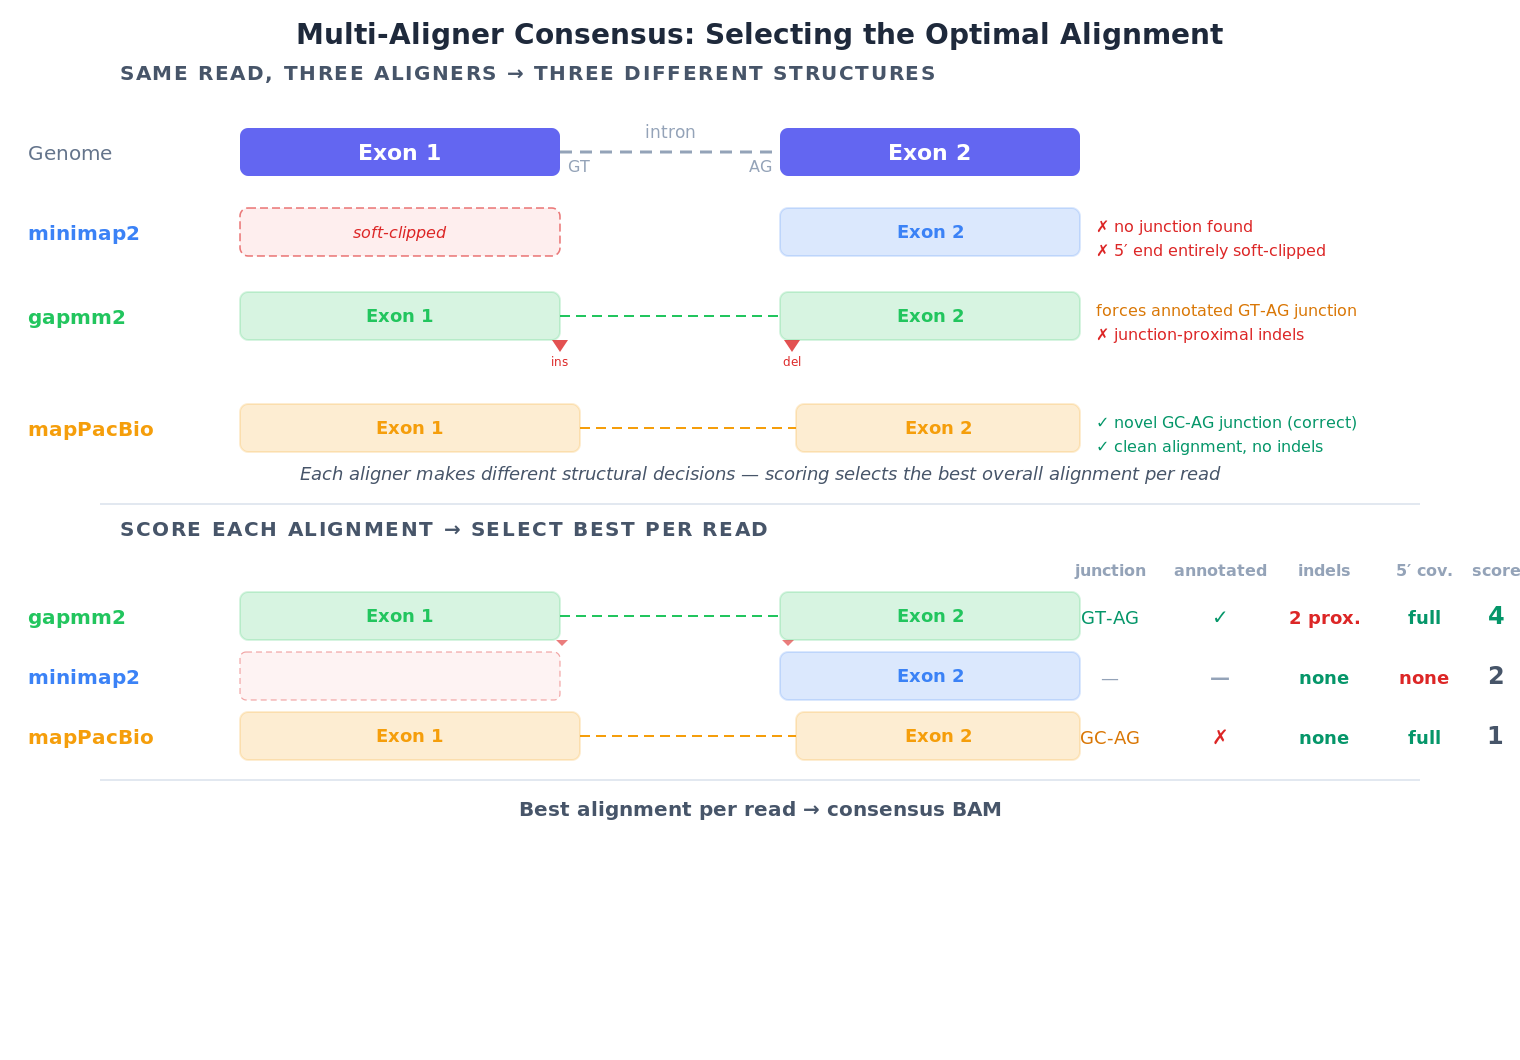
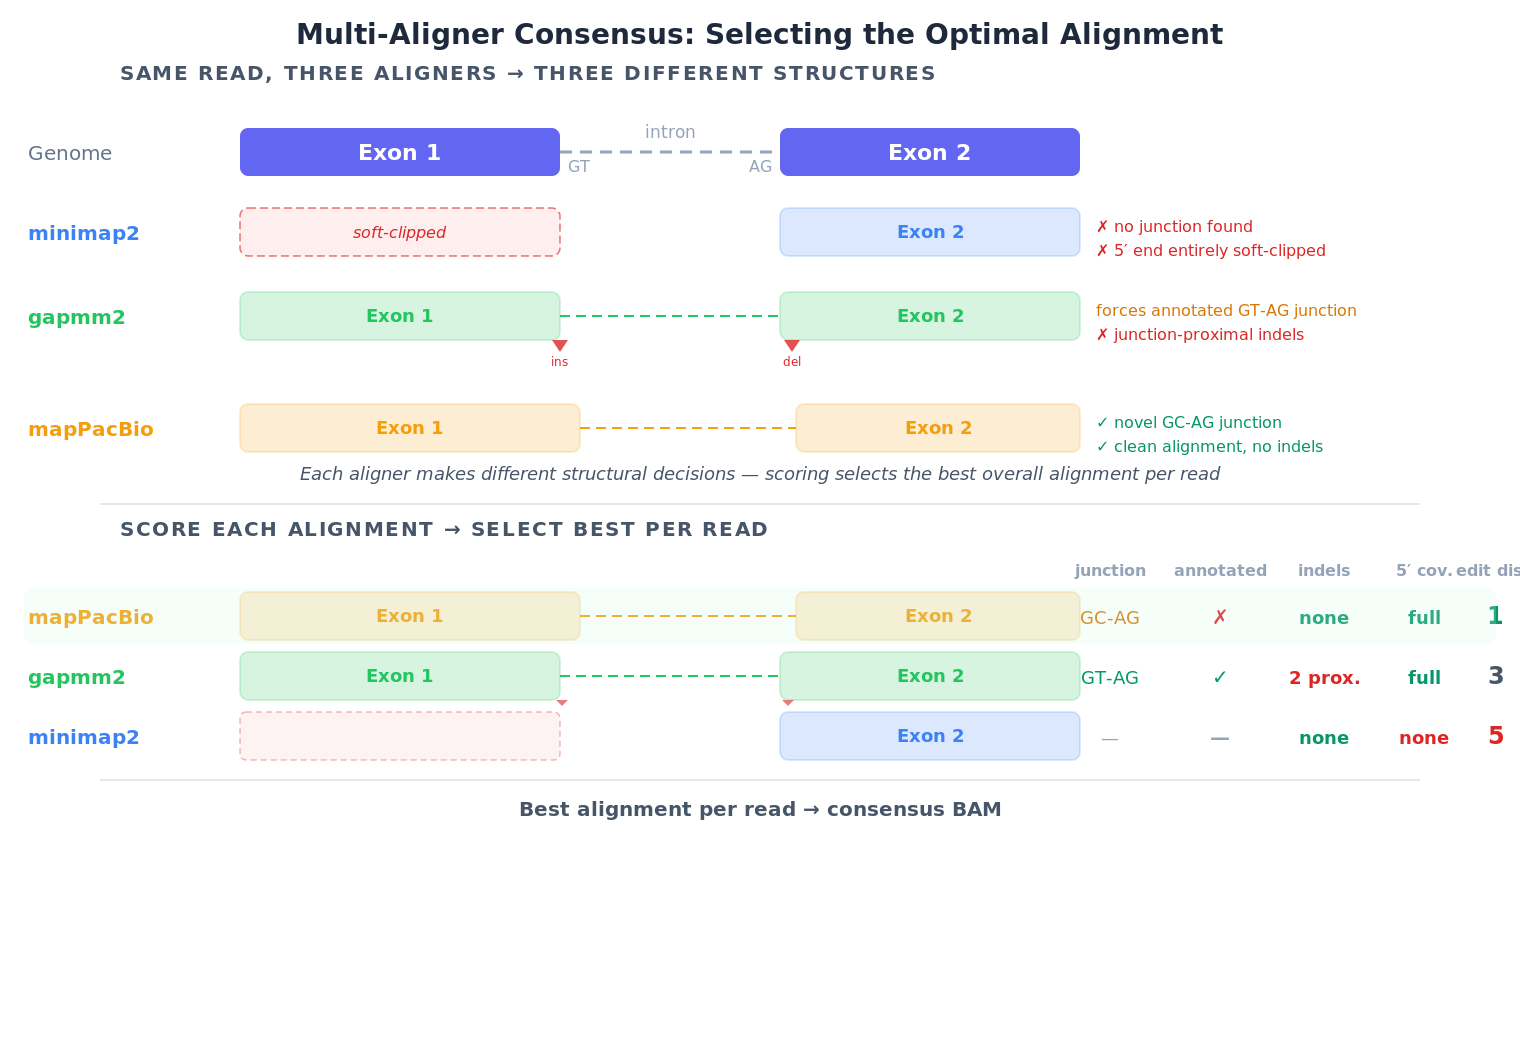
Redesign figures with unified style system; fix aligner name to mapPacBio

diff --git a/generate_figures.py b/generate_figures.py
@@ -583,7 +583,7 @@ def fig_multi_aligner_consensus():
     mpb_ex2_w = EX2_W - NOVEL_3SS
     L.append(aligned_block(mpb_ex2_x, y, mpb_ex2_w, BLK_H, "Exon 2", c))
     L.append(f'<text fill="{PAL["green"]}" font-size="8" x="{EX2_X + EX2_W + 8}" '
-             f'y="{y + BLK_H//2 + 0}">\u2713 novel GC-AG junction (correct)</text>')
+             f'y="{y + BLK_H//2 + 0}">\u2713 novel GC-AG junction</text>')
     L.append(f'<text fill="{PAL["green"]}" font-size="8" x="{EX2_X + EX2_W + 8}" '
              f'y="{y + BLK_H//2 + 12}">\u2713 clean alignment, no indels</text>')
 
@@ -604,18 +604,19 @@ def fig_multi_aligner_consensus():
 
     # Column headers
     y_hdr = y_sec2 + 20
-    score_cols = [("junction", 555), ("annotated", 610), ("indels", 662), ("5\u2032 cov.", 712), ("score", 748)]
+    score_cols = [("junction", 555), ("annotated", 610), ("indels", 662), ("5\u2032 cov.", 712), ("edit dist.", 748)]
     for label, cx in score_cols:
         L.append(f'<text fill="{PAL["muted"]}" font-size="8" font-weight="600" '
                  f'text-anchor="middle" x="{cx}" y="{y_hdr}">{label}</text>')
 
-    # Score rows — gapmm2 wins (annotated junction trumps indel penalty),
-    # minimap2 middle (soft-clip rescuable), mapPacBio lowest (novel junction
-    # penalized heavily even though it's biologically correct for this read)
+    # Score rows — lower score = better alignment.
+    # mapPacBio wins: correct novel junction, clean, full coverage.
+    # gapmm2 middle: annotated junction but indels penalized.
+    # minimap2 worst: no junction found, 5' soft-clipped.
     scores = [
-        ("gapmm2",     AC["gapmm2"],     "GT-AG", "\u2713", "2 prox.", "full",  "4", True),
-        ("minimap2",   AC["minimap2"],   "\u2014",  "\u2014",  "none",   "none",  "2", False),
-        ("mapPacBio",  AC["mapPacBio"],  "GC-AG", "\u2717", "none",    "full",  "1", False),
+        ("mapPacBio",  AC["mapPacBio"],  "GC-AG", "\u2717", "none",    "full",  "1", True),
+        ("gapmm2",     AC["gapmm2"],     "GT-AG", "\u2713", "2 prox.", "full",  "3", False),
+        ("minimap2",   AC["minimap2"],   "\u2014",  "\u2014",  "none",   "none",  "5", False),
     ]
 
     for i, (name, color, jn, ann, indels, cov, score, is_best) in enumerate(scores):
@@ -662,15 +663,18 @@ def fig_multi_aligner_consensus():
         L.append(f'<text fill="{cov_color}" font-size="9" font-weight="600" text-anchor="middle" '
                  f'x="712" y="{y + BLK_H//2 + 4}">{cov}</text>')
 
-        # Total score
+        # Edit distance — lower is better
         sc_weight = "700" if is_best else "600"
-        sc_color = PAL["green"] if is_best else PAL["heading"]
+        sc_color = PAL["green"] if is_best else (PAL["red"] if int(score) >= 5 else PAL["heading"])
         L.append(f'<text fill="{sc_color}" font-size="12" font-weight="{sc_weight}" '
                  f'text-anchor="middle" x="748" y="{y + BLK_H//2 + 4}">{score}</text>')
 
         if is_best:
             L.append(f'<text fill="{PAL["green"]}" font-size="9" font-weight="700" '
                      f'x="762" y="{y + BLK_H//2 + 4}">\u2190 best</text>')
+            # Highlight row with subtle background
+            L.append(f'<rect fill="{PAL["green_l"]}" height="{BLK_H + 4}" rx="4" '
+                     f'width="{FIG_W - 24}" x="12" y="{y - 2}" opacity="0.2"/>')
 
     # Final output label
     y_out = y_hdr + 8 + 3 * 30 + 4
